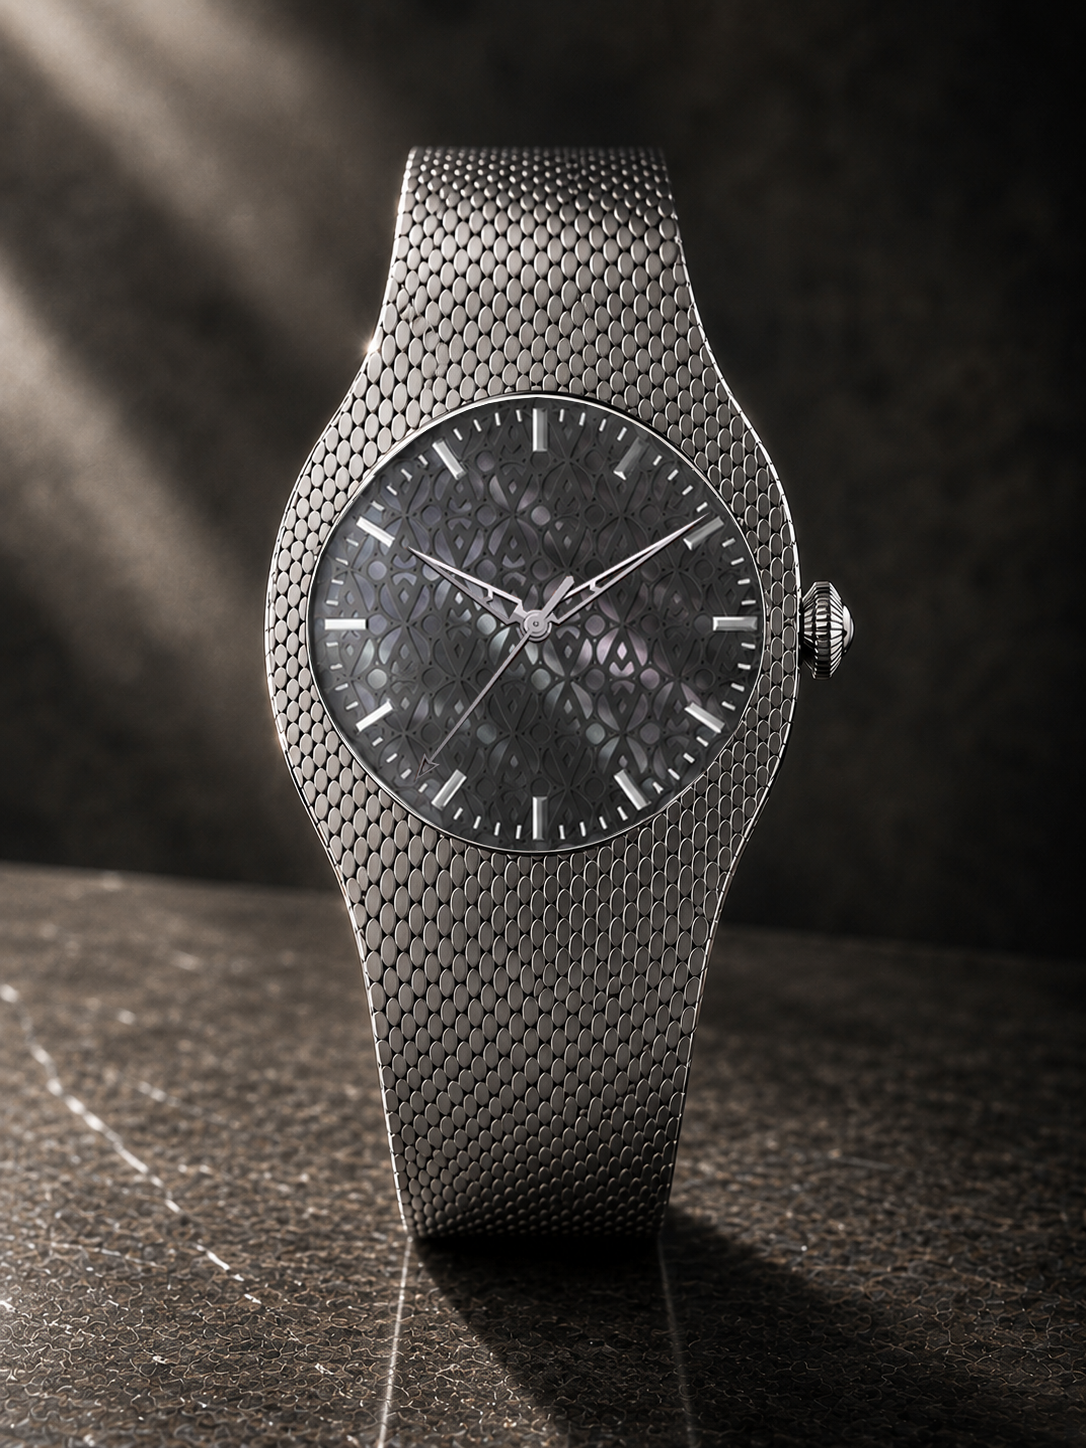
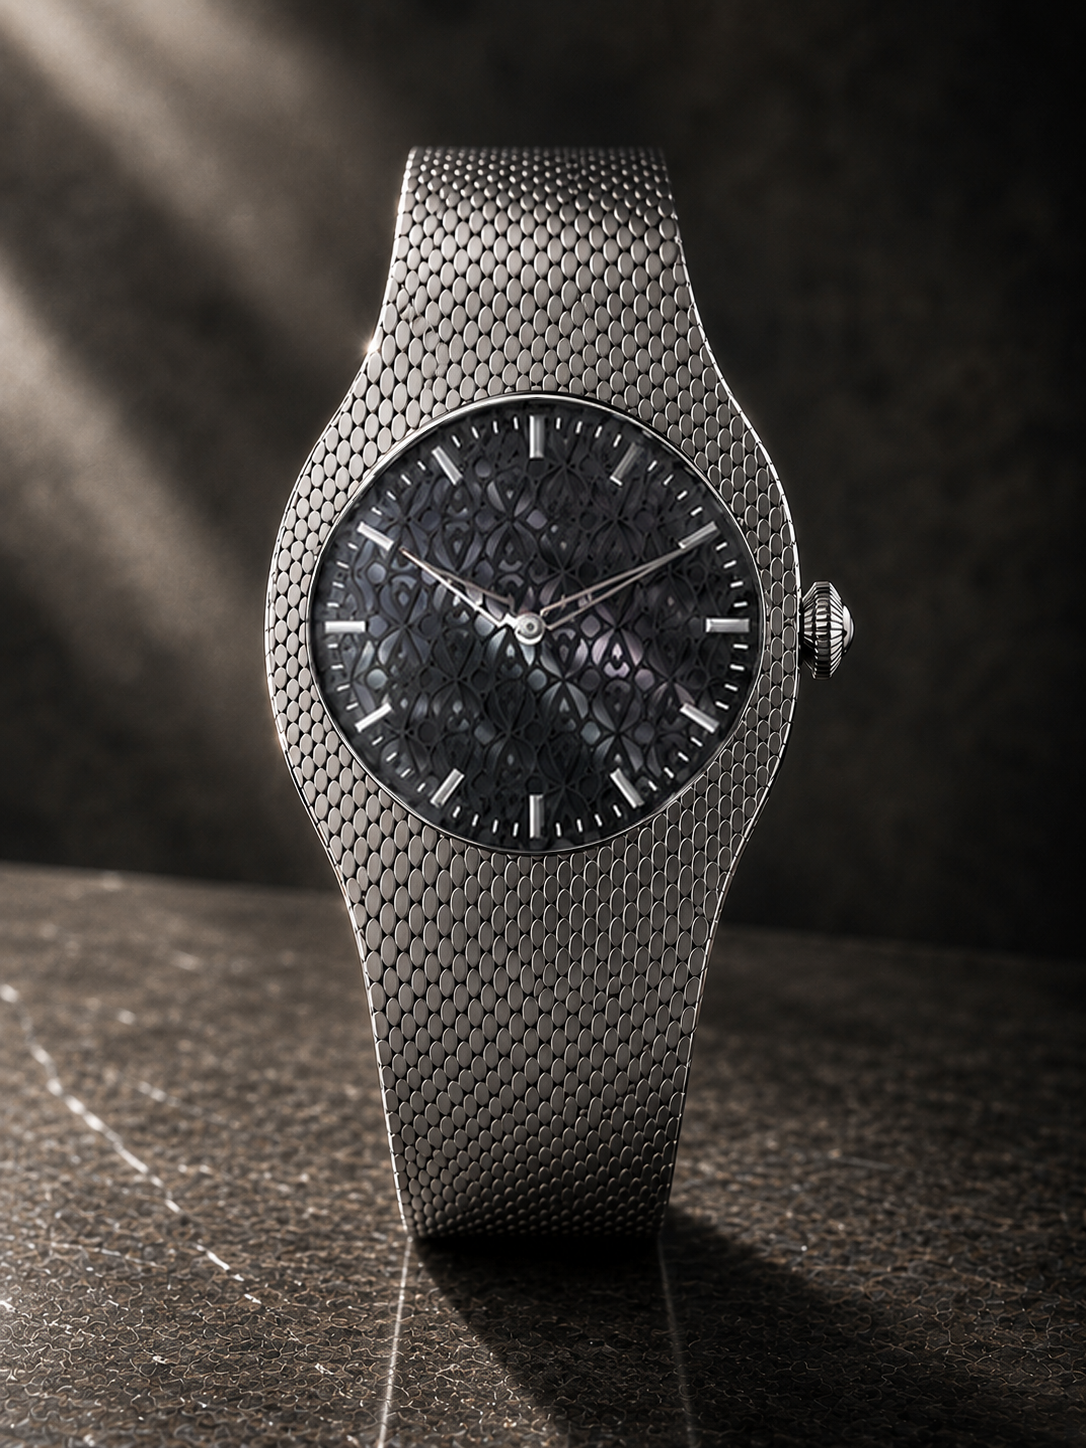
Fix Contour's enquiry-only card display; ship updated photo; rename button
Contour's real checkout has been live since the previous PR, but the
/collections card was still showing "By Enquiry Only" / "Upon
request" / "Allocation only" — leftover from before real Stripe
variants existed. Removed isEnquiryOnly and hidePriceOnCard (both now
false by omission), so the card shows real pricing ("From €895") and
a live stock count, matching how Maestro/Triomphe already display.

Scrubbed remaining "allocation"/"coming soon" language from Contour's
own copy fields (tagline, badge, edition, urgency text, spec table,
newsletter) — replaced with copy reflecting a genuinely open, limited
first-come-first-served pre-order rather than a curated allocation.

The checkout button itself said "Reserve Allocation" everywhere,
which is accurate for Maestro/Triomphe/Okapi (Kevin manually confirms
each of those) but not for Contour, which has no such review step.
Added an optional per-product `reserveButtonLabel` override (defaults
to "Reserve Allocation", so other products are unaffected) and set
Contour's to "Pre-Order Now".

Also ships the updated Black MOP product photo for the /collections
card thumbnail — this had only ever been swapped locally in a
previous session and was never actually committed/deployed.

Changed region(s): [[0.2735, 0.2797, 0.6989, 0.5905]]

diff --git a/src/lib/collections.ts b/src/lib/collections.ts
@@ -77,6 +77,8 @@ export interface Collection {
   relatedArticleSlugs?: string[];
   /** Label shown above a variant's sub-choice picker (e.g. dial color). Defaults to "Numeral Style" to preserve existing Triomphe behavior. */
   numeralOptionsLabel?: string;
+  /** Overrides the "Reserve Allocation" checkout button label for products that aren't a curated/reviewed allocation (e.g. plain first-come-first-served pre-order). Defaults to "Reserve Allocation". */
+  reserveButtonLabel?: string;
 }
 
 export const collections: Collection[] = [
@@ -523,8 +525,8 @@ export const collections: Collection[] = [
     name: "Contour",
     metaTitle: "Pedral Contour — Integrated Bracelet, Swiss Hand-Wound | Pedral",
     metaDescription:
-      "Contour: a 35mm, 6.9mm integrated-bracelet watch. From €895 quartz, €1,950 hand-wound. Stone and mother-of-pearl dials. Stockholm-designed. Coming soon.",
-    tagline: "Coming Soon",
+      "Contour: a 35mm, 6.9mm integrated-bracelet watch. From €895 quartz, €1,950 hand-wound. Stone and mother-of-pearl dials. Stockholm-designed. Limited run, pre-orders open now.",
+    tagline: "Pre-Orders Open",
     hook: "Not a watch. A presence.",
     description:
       "The Contour doesn't sit on the wrist. It wraps it. Hundreds of polished steel scales move like fabric, finished the way a fine bracelet is finished — not a case with a strap bolted on, but one continuous line from clasp to dial. Something meant to be touched as much as read.",
@@ -540,17 +542,16 @@ export const collections: Collection[] = [
     // split evenly across the two movement variants below.
     stock: 20,
     maxStock: 20,
-    edition: "First run · Small numbers, on purpose",
-    badge: "Coming Soon",
-    urgencyTag: "Not yet open · Join the list",
-    hidePriceOnCard: true,
-    // isEnquiryOnly stays on (matches Okapi's pattern): the self-serve
-    // "Reserve Allocation" button above now works via real variants/Stripe
-    // prices, but the bottom fallback section still routes to /contact for
-    // anyone who'd rather not commit to a specific dial online.
-    isEnquiryOnly: true,
+    edition: "Limited run · Pre-orders open now",
+    badge: "Limited Run — Pre-Orders Open",
+    urgencyTag: "Limited run · Pre-orders open now",
+    // Real checkout is live (Stripe variants below), so this is no longer an
+    // enquiry-gated product — pricing, stock, and the standard Reserve CTA
+    // all show normally now, same as Maestro/Triomphe.
     variantLabel: "Movement",
     numeralOptionsLabel: "Dial",
+    // First-come-first-served pre-order, not a curated/reviewed allocation.
+    reserveButtonLabel: "Pre-Order Now",
     specsTitle: "Presence, not permission.",
     specs: {
       Price: "€895 quartz · €1,950 hand-wound",
@@ -562,7 +563,7 @@ export const collections: Collection[] = [
       Bracelet: "Fully integrated, hundreds of polished scales, no visible lugs",
       Crystal: "Sapphire",
       "Water Resist.": "5 ATM / 50 meters",
-      Edition: "Allocation only · Coming soon",
+      Edition: "Limited run · Pre-orders open now",
     },
     // The bracelet is fully integrated (no separate strap), so the box swaps
     // Maestro/Okapi's strap-adapter tool for a bracelet micro-adjustment tool.
@@ -590,8 +591,8 @@ export const collections: Collection[] = [
       thickness: "6.9mm",
       note: "There are no traditional lugs to measure — the bracelet is fully integrated into the case, so fit comes down to bracelet length rather than case-to-wrist proportion. At 35mm across and 6.9mm thin, it sits close and settles flat rather than sitting high off the wrist.",
     },
-    newsletterTitle: "Hear about it before anyone else.",
-    newsletterSub: "One email, when Contour opens. Nothing else.",
+    newsletterTitle: "Stay close to the studio.",
+    newsletterSub: "Updates on Contour and future editions. No noise.",
     image: "/images/contour-black-mop.png",
     heroImage: "/images/contour-hero.png",
     heroFit: "contain",

diff --git a/src/components/pages/CollectionDetail.tsx b/src/components/pages/CollectionDetail.tsx
@@ -299,7 +299,7 @@ export default function CollectionDetail({ collection }: { collection: Collectio
                     ? `Reserve your allocation · €${c.depositAmount ?? 500} deposit`
                     : isSoldOut
                     ? "Join Waitlist"
-                    : `Reserve Allocation · €${(selectedVariant?.price ?? c.price).toLocaleString()}`}
+                    : `${c.reserveButtonLabel ?? "Reserve Allocation"} · €${(selectedVariant?.price ?? c.price).toLocaleString()}`}
                 </button>
                 {c.isPreOrder && (
                   <p className="mt-3 text-[11px] font-light leading-[1.7] text-foreground-muted/60">
@@ -671,7 +671,7 @@ export default function CollectionDetail({ collection }: { collection: Collectio
                   disabled={loading || (!c.isPreOrder && !selectedVariant) || (!!selectedVariant?.numeralOptions && !selectedNumeral) || (!!selectedNumeral && !!selectedVariant?.soldOutNumerals?.includes(selectedNumeral))}
                   className="w-full rounded-lg bg-accent px-10 py-4 text-[11px] font-medium tracking-[3px] uppercase text-background transition-colors hover:bg-accent-hover disabled:opacity-60 sm:w-auto"
                 >
-                  {loading ? "Loading…" : c.isPreOrder ? `Reserve · €${c.depositAmount ?? 500}` : isSoldOut ? "Join Waitlist" : `Reserve Allocation · €${runningTotal.toLocaleString()}`}
+                  {loading ? "Loading…" : c.isPreOrder ? `Reserve · €${c.depositAmount ?? 500}` : isSoldOut ? "Join Waitlist" : `${c.reserveButtonLabel ?? "Reserve Allocation"} · €${runningTotal.toLocaleString()}`}
                 </button>
               </div>
             </motion.div>
